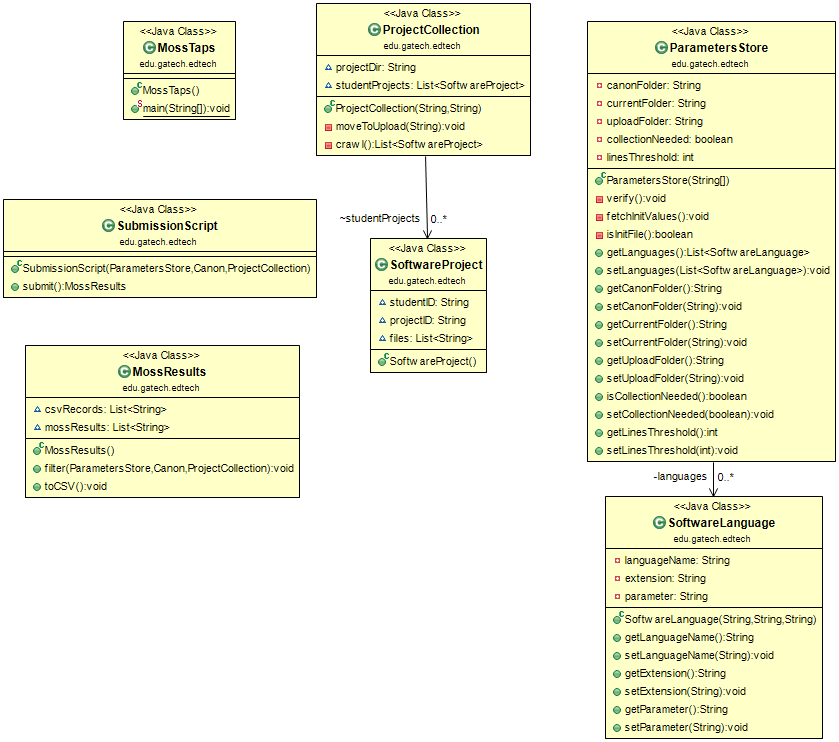
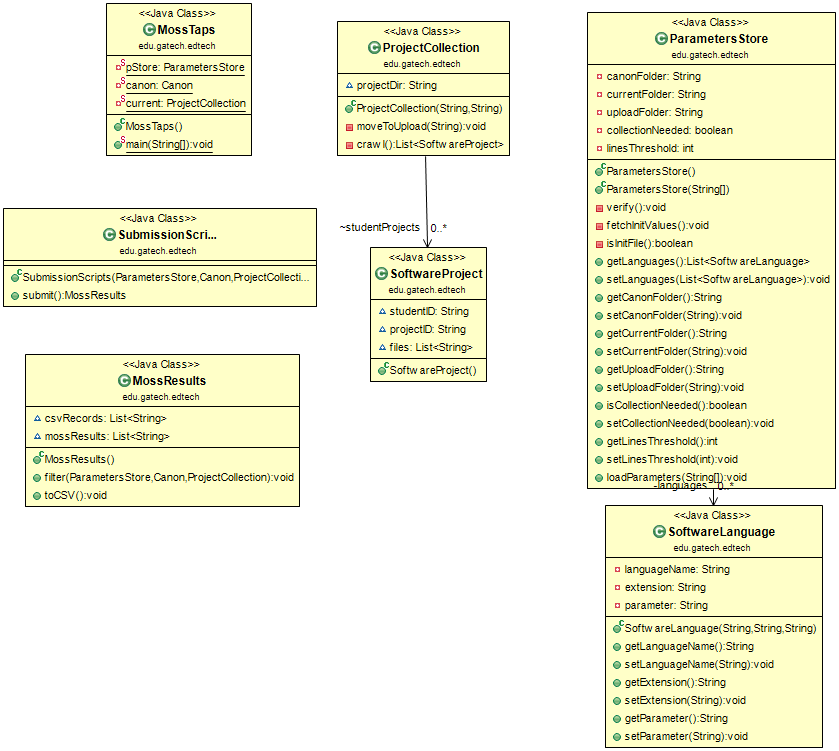
upd

diff --git a/MossTaps/data/MossResults/846377696.htm b/MossTaps/data/MossResults/846377696.htm
@@ -1,0 +1,54 @@
+<HTML>
+<HEAD>
+<TITLE>Moss Results</TITLE>
+</HEAD>
+<BODY>
+Moss Results<p>
+Sat Oct 31 08:06:31 PDT 2015
+<p>
+Options -l java -d -m 10
+<HR>
+[ <A HREF="http://moss.stanford.edu/general/format.html" TARGET="_top"> How to Read the Results</A> | <A HREF="http://moss.stanford.edu/general/tips.html" TARGET="_top"> Tips</A> | <A HREF="http://moss.stanford.edu/general/faq.html"> FAQ</A> | <A HREF="mailto:moss-request@cs.stanford.edu">Contact</A> | <A HREF="http://moss.stanford.edu/general/scripts.html">Submission Scripts</A> | <A HREF="http://moss.stanford.edu/general/credits.html" TARGET="_top"> Credits</A> ]
+<HR>
+<TABLE>
+<TR><TH>File 1<TH>File 2<TH>Lines Matched
+<TR><TD><A HREF="http://moss.stanford.edu/results/846377696/match0.html">C:/Users/Dana/Documents/GitHub/MOSS-TAPS/MossTaps/data/Java_Students/Project1-stu005-Java/ (17%)</A>
+    <TD><A HREF="http://moss.stanford.edu/results/846377696/match0.html">C:/Users/Dana/Documents/GitHub/MOSS-TAPS/MossTaps/data/Java_Students/Project1-stu007-Java/ (7%)</A>
+<TD ALIGN=right>68
+<TR><TD><A HREF="http://moss.stanford.edu/results/846377696/match1.html">C:/Users/Dana/Documents/GitHub/MOSS-TAPS/MossTaps/data/Java_Students/Project1-stu002-Java/ (4%)</A>
+    <TD><A HREF="http://moss.stanford.edu/results/846377696/match1.html">C:/Users/Dana/Documents/GitHub/MOSS-TAPS/MossTaps/data/Java_Students/Project1-stu007-Java/ (4%)</A>
+<TD ALIGN=right>83
+<TR><TD><A HREF="http://moss.stanford.edu/results/846377696/match2.html">C:/Users/Dana/Documents/GitHub/MOSS-TAPS/MossTaps/data/Java_Students/Project1-stu001-Java/ (1%)</A>
+    <TD><A HREF="http://moss.stanford.edu/results/846377696/match2.html">C:/Users/Dana/Documents/GitHub/MOSS-TAPS/MossTaps/data/Java_Students/Project1-stu004-java/ (3%)</A>
+<TD ALIGN=right>40
+<TR><TD><A HREF="http://moss.stanford.edu/results/846377696/match3.html">C:/Users/Dana/Documents/GitHub/MOSS-TAPS/MossTaps/data/Java_Students/Project1-stu004-java/ (2%)</A>
+    <TD><A HREF="http://moss.stanford.edu/results/846377696/match3.html">C:/Users/Dana/Documents/GitHub/MOSS-TAPS/MossTaps/data/Java_Students/Project1-stu007-Java/ (2%)</A>
+<TD ALIGN=right>35
+<TR><TD><A HREF="http://moss.stanford.edu/results/846377696/match4.html">C:/Users/Dana/Documents/GitHub/MOSS-TAPS/MossTaps/data/Java_Students/Project1-stu003-java/ (4%)</A>
+    <TD><A HREF="http://moss.stanford.edu/results/846377696/match4.html">C:/Users/Dana/Documents/GitHub/MOSS-TAPS/MossTaps/data/Java_Students/Project1-stu007-Java/ (2%)</A>
+<TD ALIGN=right>26
+<TR><TD><A HREF="http://moss.stanford.edu/results/846377696/match5.html">C:/Users/Dana/Documents/GitHub/MOSS-TAPS/MossTaps/data/Java_Students/Project1-stu002-Java/ (0%)</A>
+    <TD><A HREF="http://moss.stanford.edu/results/846377696/match5.html">C:/Users/Dana/Documents/GitHub/MOSS-TAPS/MossTaps/data/Java_Students/Project1-stu003-java/ (2%)</A>
+<TD ALIGN=right>65
+<TR><TD><A HREF="http://moss.stanford.edu/results/846377696/match6.html">C:/Users/Dana/Documents/GitHub/MOSS-TAPS/MossTaps/data/Java_Students/Project1-stu004-java/ (1%)</A>
+    <TD><A HREF="http://moss.stanford.edu/results/846377696/match6.html">C:/Users/Dana/Documents/GitHub/MOSS-TAPS/MossTaps/data/Java_Students/Project1-stu005-Java/ (2%)</A>
+<TD ALIGN=right>25
+<TR><TD><A HREF="http://moss.stanford.edu/results/846377696/match7.html">C:/Users/Dana/Documents/GitHub/MOSS-TAPS/MossTaps/data/Java_Students/Project1-stu002-Java/ (0%)</A>
+    <TD><A HREF="http://moss.stanford.edu/results/846377696/match7.html">C:/Users/Dana/Documents/GitHub/MOSS-TAPS/MossTaps/data/Java_Students/Project1-stu005-Java/ (2%)</A>
+<TD ALIGN=right>28
+<TR><TD><A HREF="http://moss.stanford.edu/results/846377696/match8.html">C:/Users/Dana/Documents/GitHub/MOSS-TAPS/MossTaps/data/Java_Students/Project1-stu002-Java/ (0%)</A>
+    <TD><A HREF="http://moss.stanford.edu/results/846377696/match8.html">C:/Users/Dana/Documents/GitHub/MOSS-TAPS/MossTaps/data/Java_Students/Project1-stu004-java/ (1%)</A>
+<TD ALIGN=right>28
+<TR><TD><A HREF="http://moss.stanford.edu/results/846377696/match9.html">C:/Users/Dana/Documents/GitHub/MOSS-TAPS/MossTaps/data/Java_Students/Project1-stu001-Java/ (0%)</A>
+    <TD><A HREF="http://moss.stanford.edu/results/846377696/match9.html">C:/Users/Dana/Documents/GitHub/MOSS-TAPS/MossTaps/data/Java_Students/Project1-stu007-Java/ (1%)</A>
+<TD ALIGN=right>22
+<TR><TD><A HREF="http://moss.stanford.edu/results/846377696/match10.html">C:/Users/Dana/Documents/GitHub/MOSS-TAPS/MossTaps/data/Java_Students/Project1-stu001-Java/ (0%)</A>
+    <TD><A HREF="http://moss.stanford.edu/results/846377696/match10.html">C:/Users/Dana/Documents/GitHub/MOSS-TAPS/MossTaps/data/Java_Students/Project1-stu005-Java/ (2%)</A>
+<TD ALIGN=right>22
+<TR><TD><A HREF="http://moss.stanford.edu/results/846377696/match11.html">C:/Users/Dana/Documents/GitHub/MOSS-TAPS/MossTaps/data/Java_Students/Project1-stu001-Java/ (0%)</A>
+    <TD><A HREF="http://moss.stanford.edu/results/846377696/match11.html">C:/Users/Dana/Documents/GitHub/MOSS-TAPS/MossTaps/data/Java_Students/Project1-stu002-Java/ (0%)</A>
+<TD ALIGN=right>28
+</TABLE>
+<HR>
+Any errors encountered during this query are listed below.<p></BODY>
+</HTML>

diff --git a/MossTaps/src/edu/gatech/edtech/MossTaps.java b/MossTaps/src/edu/gatech/edtech/MossTaps.java
@@ -18,7 +18,7 @@ public class MossTaps {
 		//set up the current projects
 		current = new ProjectCollection(pStore.getCurrentFolder(),pStore.getUploadFolder());
 		//create the moji script
-		SubmissionScript ss = new SubmissionScript(pStore,canon, current);
+		SubmissionScripts ss = new SubmissionScripts(pStore, canon, current);
 		//submit the script and get the results url
 		MossResults results = ss.submit();
 		//filter the results per the parameters

diff --git a/MossTaps/src/edu/gatech/edtech/SubmissionScripts.java b/MossTaps/src/edu/gatech/edtech/SubmissionScripts.java
@@ -2,9 +2,9 @@ package edu.gatech.edtech;
 
 import java.util.List;
 
-public class SubmissionScript {
+public class SubmissionScripts {
 
-	public SubmissionScript(ParametersStore pStore, Canon canon,
+	public SubmissionScripts(ParametersStore pStore, Canon canon,
 			ProjectCollection current) {
 		// TODO Auto-generated constructor stub
 	}
